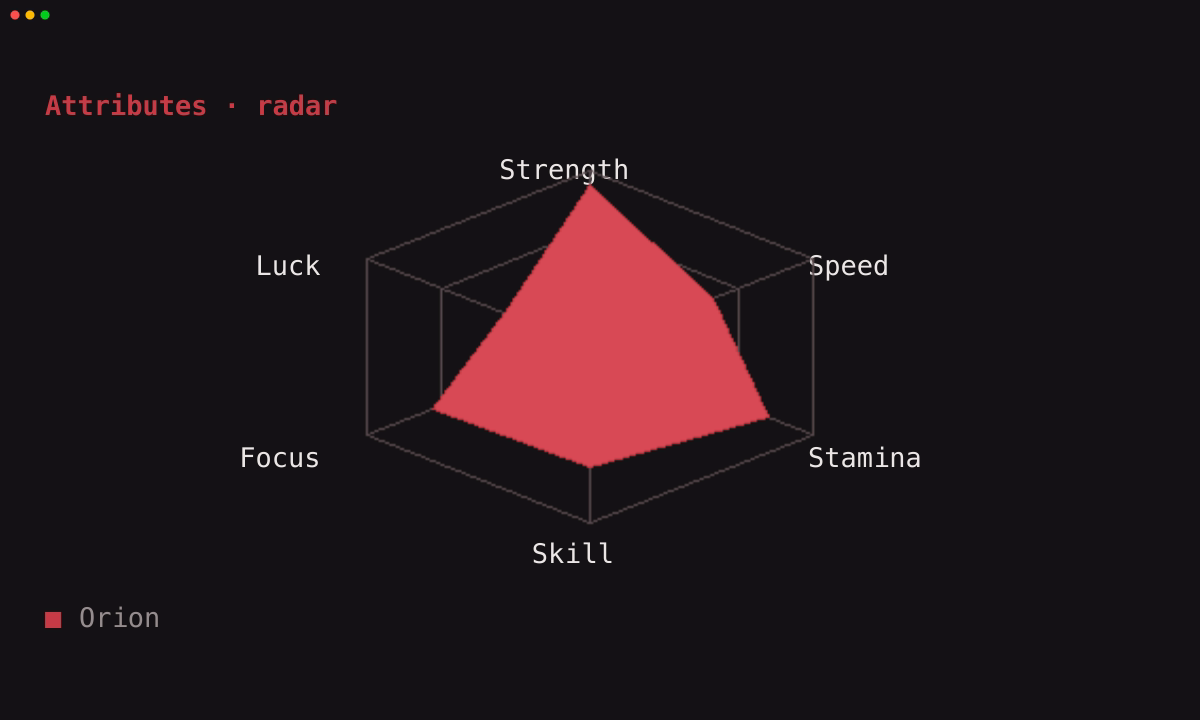
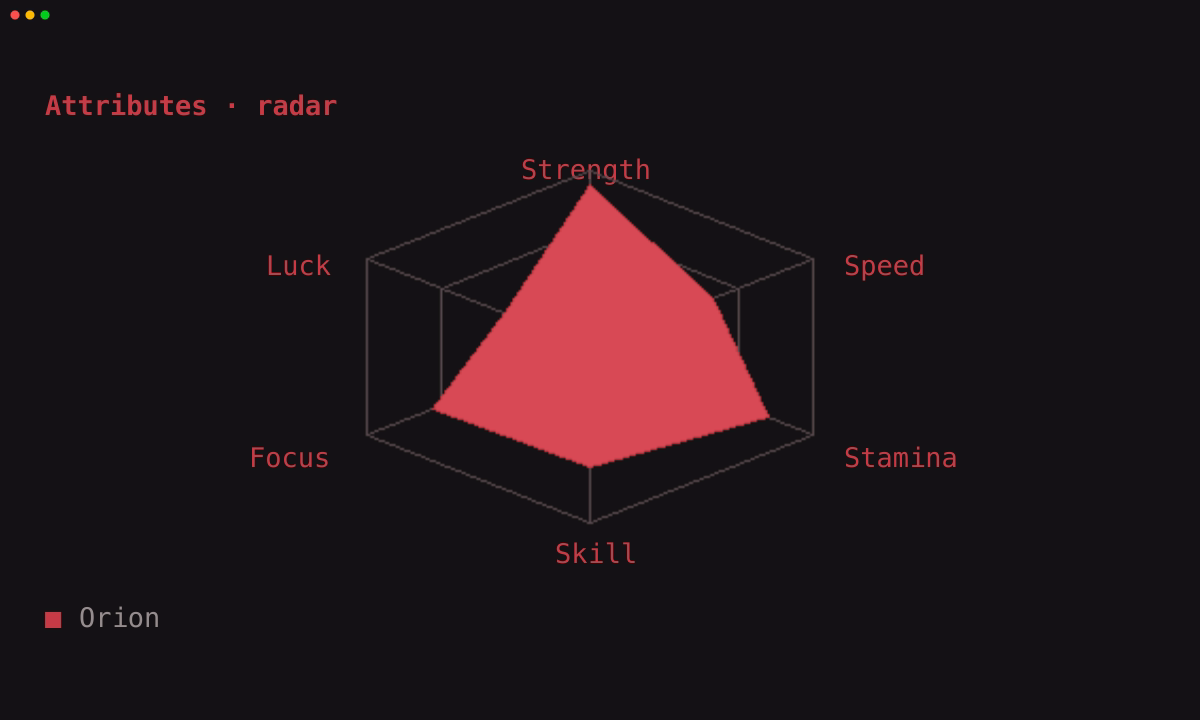
feat(charts): adapt radar detail to available space
Color radar labels from their series and replace undersized webs with a
compact label/value summary that avoids terminal image placement.

diff --git a/crates/tuika-charts/src/lib.rs b/crates/tuika-charts/src/lib.rs
@@ -4,9 +4,10 @@
 //! a graphics protocol it rasterizes smooth lines and filled bars into an image;
 //! everywhere else it renders the same axes, series, domains, and legend with
 //! terminal cells, using dense 2×2 quadrant glyphs for connected geometry and
-//! Braille subcells for scatter points. [`tuika::Runner`] supplies terminal
-//! graphics automatically; custom hosts can provide
-//! [`tuika::term::image::ImageSupport`] and an
+//! Braille subcells for scatter points. Radar charts degrade once more to a
+//! colored label/value summary when their body is too small for a legible web.
+//! [`tuika::Runner`] supplies terminal graphics automatically; custom hosts can
+//! provide [`tuika::term::image::ImageSupport`] and an
 //! [`tuika::term::image::ImageLayer`] through [`tuika::RenderCtx`].
 
 use ratatui_core::layout::Rect;
@@ -260,10 +261,16 @@ impl View for Chart {
                         .support(support)
                         .in_layer(layer)
                         .render(body, &mut surface.child(body), ctx);
-                    if let Some(plan::Geometry::Radar { labels, .. }) =
-                        plan.marks.first().map(|mark| &mark.geometry)
+                    if let Some(mark) = plan.marks.first()
+                        && let plan::Geometry::Radar { labels, .. } = &mark.geometry
                     {
-                        cells::render_radar_labels(body, surface, labels, ctx);
+                        cells::render_radar_labels(
+                            body,
+                            surface,
+                            labels,
+                            Style::default().fg(mark.color),
+                            ctx,
+                        );
                     }
                     return;
                 }
@@ -1584,6 +1591,66 @@ mod grammar_tests {
         let (buffer, area) = render_to(&chart, 48, 16);
 
         assert!(grid_of(&buffer, area).contains('•'));
+    }
+
+    #[test]
+    fn a_small_radar_degrades_to_colored_text() {
+        let color = Color::Rgb(32, 196, 224);
+        let chart = Chart::new()
+            .legend(false)
+            .x_axis(Axis::new().categories(["Reasoning", "Speed", "Memory"]))
+            .series(Series::radar("profile", at([80.0, 65.0, 90.0])).color(color));
+        let (buffer, area) = render_to(&chart, 28, 8);
+        let grid = grid_of(&buffer, area);
+
+        for text in ["Reasoning", "80%", "Speed", "65%", "Memory", "90%"] {
+            assert!(grid.contains(text), "missing {text} in\n{grid}");
+        }
+        assert!(
+            !grid.chars().any(is_braille),
+            "compact mode is text-only:\n{grid}"
+        );
+        assert_eq!(buffer[(0, 0)].fg, color, "axis labels use the series color");
+    }
+
+    #[test]
+    fn a_small_radar_skips_the_image_layer() {
+        let theme = Theme::default();
+        let layer = ImageLayer::new();
+        let ctx = RenderCtx::new(&theme).with_image_graphics(ImageSupport::Kitty, &layer);
+        let chart = Chart::new()
+            .legend(false)
+            .x_axis(Axis::new().categories(["Reasoning", "Speed", "Memory"]))
+            .series(Series::radar("profile", at([80.0, 65.0, 90.0])));
+        let area = Rect::new(0, 0, 28, 8);
+        let buffer = tuika::testing::render_with_context(&chart, area.width, area.height, &ctx);
+        let grid = grid_of(&buffer, area);
+
+        assert_eq!(layer.len(), 0, "compact mode must not place an image");
+        assert!(
+            grid.contains("Reasoning"),
+            "compact labels remain visible:\n{grid}"
+        );
+        assert!(
+            grid.contains("80%"),
+            "compact values remain visible:\n{grid}"
+        );
+    }
+
+    #[test]
+    fn radar_axis_names_use_the_series_color() {
+        let color = Color::Rgb(32, 196, 224);
+        let chart = Chart::new()
+            .legend(false)
+            .x_axis(Axis::new().categories(["Reasoning", "Speed", "Memory"]))
+            .series(Series::radar("profile", at([80.0, 65.0, 90.0])).color(color));
+        let (buffer, area) = render_to(&chart, 48, 16);
+        let reasoning = (0..area.height)
+            .flat_map(|y| (0..area.width).map(move |x| (x, y)))
+            .find(|&(x, y)| buffer[(x, y)].symbol() == "R")
+            .expect("Reasoning label");
+
+        assert_eq!(buffer[reasoning].fg, color);
     }
 
     #[test]

diff --git a/crates/tuika-charts/src/cells.rs b/crates/tuika-charts/src/cells.rs
@@ -112,6 +112,7 @@ pub(super) fn render_radar_cells(
         return;
     }
     let Some(layout) = RadarLayout::new(plot.width, plot.height, labels) else {
+        render_radar_summary(plot, surface, values, labels, style, ctx);
         return;
     };
     let subcell = |point: (f64, f64)| {
@@ -160,19 +161,20 @@ pub(super) fn render_radar_cells(
         }
     }
 
-    render_radar_labels_with_layout(plot, surface, labels, &layout, ctx);
+    render_radar_labels_with_layout(plot, surface, labels, &layout, style, ctx);
 }
 
 pub(super) fn render_radar_labels(
     plot: Rect,
     surface: &mut Surface,
     labels: &[String],
+    style: Style,
     ctx: &RenderCtx,
 ) {
     let Some(layout) = RadarLayout::new(plot.width, plot.height, labels) else {
         return;
     };
-    render_radar_labels_with_layout(plot, surface, labels, &layout, ctx);
+    render_radar_labels_with_layout(plot, surface, labels, &layout, style, ctx);
 }
 
 fn render_radar_labels_with_layout(
@@ -180,6 +182,7 @@ fn render_radar_labels_with_layout(
     surface: &mut Surface,
     labels: &[String],
     layout: &RadarLayout,
+    style: Style,
     ctx: &RenderCtx,
 ) {
     for (index, label) in labels.iter().enumerate() {
@@ -190,13 +193,43 @@ fn render_radar_labels_with_layout(
                     plot.y + y + offset as u16,
                     line,
                     if offset == 0 {
-                        Style::default().fg(ctx.theme.text)
+                        style
                     } else {
                         Style::default().fg(ctx.theme.muted)
                     },
                 );
             }
         }
+    }
+}
+
+fn render_radar_summary(
+    plot: Rect,
+    surface: &mut Surface,
+    values: &[f64],
+    labels: &[String],
+    style: Style,
+    ctx: &RenderCtx,
+) {
+    for (row, (label, value)) in labels.iter().zip(values).enumerate() {
+        let Ok(row) = u16::try_from(row) else {
+            break;
+        };
+        if row >= plot.height {
+            break;
+        }
+        let y = plot.y + row;
+        let label = label.lines().next().unwrap_or(label);
+        surface.set_string(plot.x, y, label, style);
+
+        let value = format!("{}%", trim_number(*value));
+        let value_width = tuika::width::str_cols(&value).min(plot.width);
+        surface.set_string(
+            plot.right().saturating_sub(value_width),
+            y,
+            &value,
+            Style::default().fg(ctx.theme.muted),
+        );
     }
 }
 

diff --git a/crates/tuika-charts/examples/radar.rs b/crates/tuika-charts/examples/radar.rs
@@ -136,14 +136,17 @@ impl Application for RadarApp {
         let chart = Chart::new()
             .x_axis(Axis::new().categories(labels))
             .y_axis(Axis::hidden())
-            .series(Series::radar(
-                profile.name,
-                profile
-                    .values
-                    .iter()
-                    .enumerate()
-                    .map(|(index, value)| Point::new(index as f64, *value)),
-            ))
+            .series(
+                Series::radar(
+                    profile.name,
+                    profile
+                        .values
+                        .iter()
+                        .enumerate()
+                        .map(|(index, value)| Point::new(index as f64, *value)),
+                )
+                .color(theme.accent),
+            )
             .legend(false);
 
         let mut model_lines = vec![
@@ -242,7 +245,7 @@ impl Application for RadarApp {
                                     grow(1) {
                                         col(gap = 1) {
                                             fixed(4) { node(summary) }
-                                            fixed(15) { node(chart) }
+                                            fixed(14) { node(chart) }
                                             grow(1) { node(rationale) }
                                         }
                                     }

diff --git a/crates/tuika-charts/src/model.rs b/crates/tuika-charts/src/model.rs
@@ -31,7 +31,8 @@ pub enum SeriesKind {
     /// Project values onto categorical axes around a shared center.
     ///
     /// The point order defines the axes and each point's `y` coordinate is
-    /// treated as a percentage in the range `0..=100`; `x` is ignored.
+    /// treated as a percentage in the range `0..=100`; `x` is ignored. Areas
+    /// too small for a readable web show the colored axis labels and values.
     Radar,
     /// Draw independent point markers without connecting them.
     Scatter,
@@ -75,7 +76,8 @@ impl Series {
     }
 
     /// Construct a radar series. Point order defines the axes and each point's
-    /// `y` coordinate is its value; `x` is ignored.
+    /// `y` coordinate is its value; `x` is ignored. The series color applies to
+    /// the outline and axis names in both web and compact text modes.
     pub fn radar(name: impl Into<String>, points: impl IntoIterator<Item = Point>) -> Self {
         Self::new(name, SeriesKind::Radar, points)
     }

diff --git a/crates/tuika-charts/src/radar.rs b/crates/tuika-charts/src/radar.rs
@@ -1,5 +1,8 @@
 //! Shared radar geometry for the cell and pixel renderers.
 
+const MIN_WEB_COLS: u16 = 32;
+const MIN_WEB_ROWS: u16 = 12;
+
 /// A radar web laid out in terminal-cell coordinates.
 pub(crate) struct RadarLayout {
     cols: u16,
@@ -10,7 +13,7 @@ pub(crate) struct RadarLayout {
 
 impl RadarLayout {
     pub(crate) fn new(cols: u16, rows: u16, labels: &[String]) -> Option<Self> {
-        if cols < 20 || rows < 9 {
+        if cols < MIN_WEB_COLS || rows < MIN_WEB_ROWS {
             return None;
         }
         let label_margin = labels

diff --git a/knowledge/specs/charts.md b/knowledge/specs/charts.md
@@ -67,8 +67,11 @@ centre text; its slices are named by the legend. A radar is a three-ring web of
 categorical spokes with values normalized to `0..=100`. Its portable renderer
 uses fine Braille subcells for the web and data outline, with optional sample
 markers, while graphics adds a translucent fill behind the same outline. Spoke
-labels remain cells in both modes and the two paths share one cell-space layout,
-so a capability change cannot move the values away from their labels.
+names use the series color and remain cells in both modes. Below the web's
+minimum readable body, the chart suppresses image placement and lists each
+colored spoke name beside its percentage instead. The two full renderers share
+one cell-space layout, so a capability change cannot move the values away from
+their labels.
 
 Graphics images are transparent where nothing is drawn rather than filled with
 the theme background, because the terminal composites them over the cell grid:

diff --git a/knowledge/log.md b/knowledge/log.md
@@ -25,8 +25,9 @@
   - The polar grammar carries only shapes both renderers preserve: a donut ring
     for part-to-whole data and a radar web for independent `0..=100` readings.
     Radar uses a fine Braille web and outline in cells and the same shared
-    geometry with translucent fill in graphics; optional markers and labels
-    retain the same meaning in both.
+    geometry with translucent fill in graphics; optional markers and colored
+    labels retain the same meaning in both. Areas too small for the web degrade
+    to a text label/value summary and skip image placement.
     Filled pie wedges still fail that parity bar and remain excluded.
   - Graphics images are transparent where nothing is drawn. The terminal
     composites them over the cell grid, so an opaque background would hide the

diff --git a/docs/charts.md b/docs/charts.md
@@ -141,7 +141,9 @@ cells. Slices are named by the legend rather than by radial labels.
 
 A radar series maps ordered x-axis categories to spokes and interprets each
 point's y value as a percentage. The cell path uses a fine Braille web and
-outline; graphics adds translucent fill without moving the cell-drawn labels.
+colored outline; graphics adds translucent fill without moving the colored,
+cell-drawn labels. If the assigned body cannot hold a readable web, both paths
+degrade to a compact label/value list and no image is placed.
 
 | Cells | Graphics |
 | --- | --- |

diff --git a/crates/tuika-charts/README.md b/crates/tuika-charts/README.md
@@ -155,7 +155,10 @@ for domains, fallback behavior, and the intentionally portable grammar.
 ## Radar charts
 
 Radar series interpret each point's `y` value as a percentage (`0..=100`) and
-use x-axis categories as spoke labels:
+use x-axis categories as spoke labels. The series color carries through the
+polygon and axis names. When the assigned body is too small for a legible web,
+the chart skips image placement and renders a compact colored label/value list
+instead:
 
 ```rust
 let chart = Chart::new()
